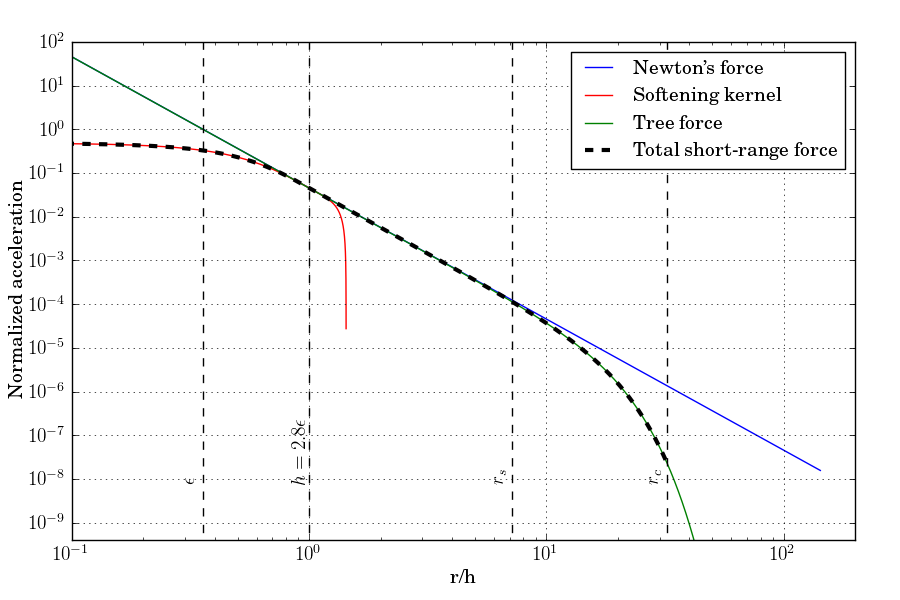
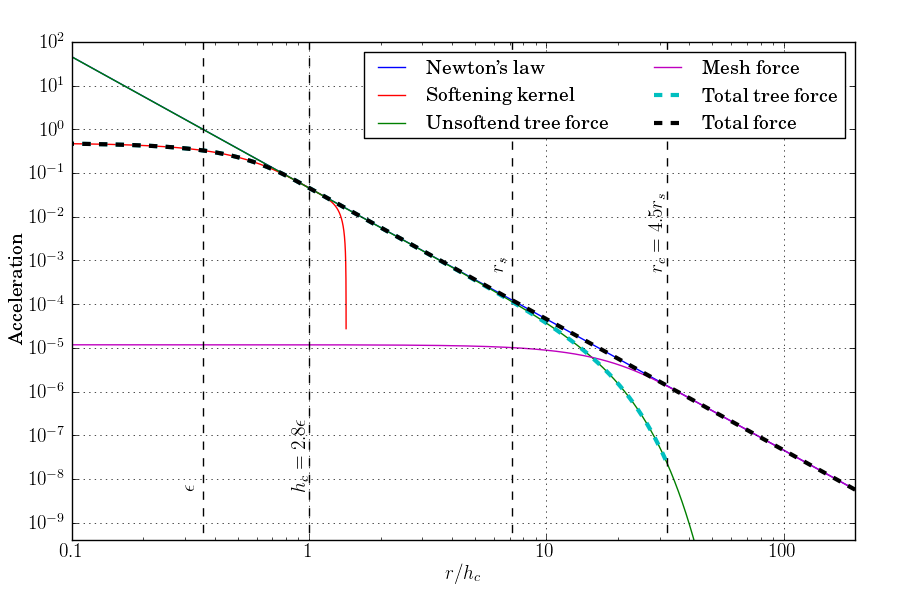
Added the detailed equations for short-range gravity interactions to the theory document.
Former-commit-id: dc4b5da24241951c061626df676817c9820bc9d8

diff --git a/theory/latex/swift.tex b/theory/latex/swift.tex
@@ -2,6 +2,7 @@
 \usepackage[utf8]{inputenc}
 \usepackage{amsmath}
 \usepackage{color}
+\usepackage{graphicx}
 
 \newcommand{\swift}{\textsc{swift }}
 \newcommand{\eagle}{\textsc{eagle }}
@@ -147,7 +148,7 @@ performed very rarely and is described in chapter \ref{chap:FOF}.
 
 \section{Units used in the code}
 
-\textcolor{red}{To be agreed on and written down.}
+\textcolor{red}{To be written down.}
 
 
 
@@ -200,81 +201,141 @@ time. In cosmological simulations, the softening length is a function of time.
 The gravity interactions are split in two parts, the sort range interactions computed via the FMM method and the long 
 range interactions computed through a PM scheme. Short range interactions are also soften on a scale $\epsilon$ to 
 reduce the effect of spurious two-body relaxation. For implementation purposes, we define the quantity $h_c = 
-2.8\epsilon$, the radius at which the force becomes Newtonian and is not soften any more.
+2.8\epsilon$, the radius at which the force becomes purely Newtonian and is not soften any more.
+
+\begin{equation}
+ \vec{a} = \vec{a}_{short} + \vec{a}_{long}
+\end{equation}
+
 
 The short range force is computed thanks to FMM. The expression for the acceleration of a particle $i$ due to a body 
 (particle or monopole) $j$ is given by:
 
 \begin{equation}
- \vec{a} = f \cdot \vec{r}_{ij},
+ \vec{a}_{short} = G\cdot f \cdot f_{LR} \cdot \vec{r}_{ij},
 \end{equation}
- where $f$ is the norm of the acceleration given by
+ where $G$ is Newton's constant, $f$ is the softened local force and $f_{LR}$ is the correction factor coming from the use of the mesh for long distance forces.
+ The softened local force is 
 
 \begin{equation}
- f = G\left\lbrace \begin{array}{rcl}
-                    \frac{1}{|\vec{r}_{ij}|^3}  & \mbox{if} & |\vec{r}_{ij}| > h_c \\
-                    (\frac{32}{3} + \frac{|\vec{r}_{ij}|^2}{h_c^2} (32 \frac{|\vec{r}_{ij}|}{h_c} - 38.4)) / h_c^3  & 
-\mbox{if} & h_c \geq |\vec{r}_{ij}| > \frac{h_c}{2} \\	
-                    \frac{1}{|\vec{r}_{ij}|^3}  & \mbox{if} & |\vec{r}_{ij}| \leq \frac{h_c}{2} \\		
+\nonumber
+ f = \left\lbrace \begin{array}{rcl}
+                    \frac{1}{|\vec{r}_{ij}|^3}  & \mbox{if} & |\vec{r}_{ij}| > h_c\Big. \\
+                    \frac{1}{h_c^3}\left(-\frac{32}{3}\frac{|\vec{r}_{ij}|^3}{h_c^3} + \frac{192}{5}\frac{|\vec{r}_{ij}|^2}{h_c^2} - 48\frac{|\vec{r}_{ij}|}{h_c} + \frac{64}{3} - \frac{2h_c^3}{3|\vec{r}_{ij}|^3} \right)  & \mbox{if} & h_c \geq |\vec{r}_{ij}| > \frac{h_c}{2}\Big. \\	
+                    \frac{1}{h_c^3}\left(32\frac{|\vec{r}_{ij}|^3}{h_c^3} - \frac{192}{5}\frac{|\vec{r}_{ij}|^2}{h_c^2} + \frac{32}{3}\right)  & \mbox{if} & |\vec{r}_{ij}| \leq \frac{h_c}{2}\Big. \\		
 		    \end{array}\right.
 \end{equation}
 
- 
+The correction factor introduced by the long range force calculation is dependant on the parameter $r_s$, the spatial scale of the force-split.
+
+\begin{equation}
+ f_{LR} = \text{erfc}\left(\frac{|\vec{r}_{ij}|}{2r_s}\right) + \frac{|\vec{r}_{ij}|}{r_s\sqrt{\pi}}\exp\left(-\frac{|\vec{r}_{ij}|^2}{4r_s^2}\right)
+\end{equation}
+
+In practice, $r_s$ is given as a multiple ($\sim 1.25$) of the FFT-mesh size (See below). Figure \ref{fig:short_range_correction} shows the value of $f_{LR}$ for various distances $r$ (expressed in units of $r_s$.
+As can be seen for distances greater than a few $r_s$, the value drops below $10^{-2}$, effectively suppressing the force contributions coming from the tree for large distances. In practice, a
+cut-off distance of $r_c$ is used above which no tree interaction is performed. A choice of $r_c=4.5r_s$ is standard. Notice than in practice $r_s \gg \epsilon$.\\
+The values of $r_s$ and $r_c$ are both given at compile time. \\
+
+\begin{figure}
+\centering
+\includegraphics[width=\textwidth]{Figures/Gravity/correction}
+\caption{Correction terms to the force computed from the tree due to the use of a mesh for long range forces. For distances above $r_c$, the contribution of the tree becomes neglectable and can safely be ignored.
+The red curve is the complement to one of $f_{LR}$ and shows that this term only matters in a small region around $r_s$ and can safely be replaced by $1$ for $r\ll r_s$.} 
+ \label{fig:short_range_correction}
+\end{figure}
+
+A similar cut-off radius could be used to avoid computing $f_{LR}$ for small $r$ (i.e. when the term is $1$). \gadget pre-computes the values of $f_{LR}$ and stores the results
+in a table. This allows to avoid the expensive calculation of the exact term. \\
+
+The long range force is computed using the FFT algoritm. In the first step, the particles are sampled on the grid to give the density field $\rho(\vec{x})$. We then use a Fourier
+transform to compute the field $\hat\rho(\vec{k})$. We then compute the potential in Fourier space by applying the filter function corresponding to the term $f_{LR}$. This reads:
+
+\begin{equation}
+ \hat\phi(\vec{k}) = - \frac{4\pi G\hat\rho(\vec{k})}{|\vec{k}|^2} \exp\left(-|\vec{k}|^2 r_s^2\right).
+\end{equation}
+
+This is then transformed back to real space using an inverse FFT. The force applied to each particle is obtained by finite-differentiating this using a standard stencil:
+
+\begin{equation}
+ \frac{d\phi}{dx_i} = \frac{1}{\Delta x}\left(\frac{1}{12}\phi_{i-2,j,k} - \frac{2}{3}\phi_{i-1,j,k} + \frac{2}{3}\phi_{i+1,j,k} - \frac{1}{12}\phi_{i+2,j,k}\right)
+\end{equation}
+
+Figure \ref{fig:total_force} shows the total acceleration as a function of distance and the different contributions. The total error made in the calculation is displayed on figure
+\ref{fig:total_error}. The error comes from the truncation of the short-range tree forces at a distance $r_c$. For $r_c>4.5r_s$, the error is less than $2\%$. Higher values of
+$r_c$ would improve the accuracy but lead to more intereactions computed via the tree instead of via the mesh.\\
+
+\begin{figure}
+\centering
+\includegraphics[width=\textwidth]{Figures/Gravity/force}
+\caption{Total acceleration and the various contributions as a function of the distance $r$ in units of $h_c$. No tree-based interaction is computed for $r>r_c$.
+The value of $r_s$ chosen here is arbitrary.} 
+ \label{fig:total_force}
+\end{figure}
+
+\begin{figure}
+\centering
+\includegraphics[width=\textwidth]{Figures/Gravity/error}
+\caption{Relative error made on the acceleration calculation as a function of the distance $r$ expressed in uits of $r_s$. The error is maximal at $r=r_c$ and is less than $2\%$ in magnitude if 
+one chooses $r_c > 4.5 r_s$.} 
+ \label{fig:total_error}
+\end{figure}
+
 The maximal time step a particle is allowed to have is related to the acceleration by:
 
 \begin{equation}
- \Delta t_i = \sqrt{\frac{2\eta \epsilon_i}{|\vec{a_i}|}}
+ \Delta t_i = \sqrt{\frac{2\eta \epsilon}{|\vec{a_i}|}}
 \end{equation}
 
 where $\eta$ is some accuracy constant which generally takes a value around $\eta \approx 0.025$.
 
-\section{Periodic boundary conditions}
+% \section{Periodic boundary conditions}
+% 
+% In most cases, the simulations are run with periodic boundary conditions. The simplest way to treat the formally
+% infinite number of interactions in a tree code is to use the Ewald summation technique. In this case, the acceleration
+% of a particle gets a new term:
+% 
+% \begin{equation}
+%  \vec{a_i} = \vec{a_i} + \sum_j m_j \vec{f}_c(\vec{r}_{ij}).
+% \end{equation}
+% 
+% The correction terms $\vec{f}_c$ are expensive to compute but are constant in time and only depend on the distance
+% between the particles. This means that the values can be pre-computed and stored in a table. A simple 3D interpolation
+% of the values in this table is then used when actually computing the force. \gadget and other code use a $N_e=64$
+% elements per dimension table representing one octant. The other ones can be obtained thanks to the symmetry properties
+% of the terms. \\
+% 
+% The table is computed as follows. For every element $i <N_e, j<N_e,k<N_e$, we compute the vector $\vec{x} =
+% (\frac{i}{2N_e}, \frac{j}{2N_e}, \frac{k}{2N_e})$. The table element $(i,j,k)$ is then:
+% 
+% \begin{eqnarray*}
+%  \vec{E}_{ijk} &=& \frac{1}{L^2}\frac{\vec{x}}{|\vec{x}|} \\
+%          & & -\frac{1}{L^2}\sum_{n_x=-l_n}^{l_n}\sum_{n_z=-l_n}^{l_n}\sum_{n_z=-l_n}^{l_n}
+% \frac{\vec{x}-\vec{n}}{|\vec{x}-\vec{n}|}\left[\mathrm{erfc}\left(\alpha|\vec{x}-\vec{n}|\right) +
+% \frac{2\alpha}{\sqrt{\pi}}|\vec{x}-\vec{n}|\cdot e^{-\alpha^2|\vec{x}-\vec{n}|^2}\right]\\
+%          & & -\frac{1}{L^2}\sum_{h_x=-l_h}^{l_h}\sum_{h_z=-l_h}^{l_h}\sum_{h_z=-l_h}^{l_h} 2\frac{\vec{h}}{|\vec{h}|^2}
+% \cdot e^{-\pi^2|\vec{h}|^2} \cdot \sin\left(2\pi\cdot \vec{h}\cdot\vec{x}\right)
+% \end{eqnarray*}
+% 
+% where $L$ is the size of the box, $\alpha$ is an arbitrary number and the vectors $\vec{n}$ and $\vec{h}$ are defined
+% as $\vec{n} = (n_x,n_y,n_z)$ and $\vec{h} = (h_x,h_y,h_z)$. \gadget uses $\alpha=2$ and $l_n=l_h=4$. The higher these
+% last two values and $N_e$ are, the better the approximation. The result does not depend on $\alpha$ but depending on
+% the value, the convergence of the serires toward the exact solution can vary. \\
+% These tables are computed at the start of the simulation or read from a file to speed-up initialization. \\
+% 
+% Once the table has been computed, the values can be used to get the corrections $\vec{f}_c(\vec{r}_{ij})$.
+% 
+% \begin{equation}
+%  \vec{f}_c(\vec{r}_{ij}) = \vec{E}_{abc}
+% \end{equation}
+% 
+% where the indices $a$, $b$ and $c$ are rounded down integer values $(a,b,c) = \left\lfloor\frac{2N}{L}
+% \vec{r}_{ij}\right\rfloor$ of the distance between particle $i$ and $j$.
 
-In most cases, the simulations are run with periodic boundary conditions. The simplest way to treat the formally
-infinite number of interactions in a tree code is to use the Ewald summation technique. In this case, the acceleration
-of a particle gets a new term:
-
-\begin{equation}
- \vec{a_i} = \vec{a_i} + \sum_j m_j \vec{f}_c(\vec{r}_{ij}).
-\end{equation}
-
-The correction terms $\vec{f}_c$ are expensive to compute but are constant in time and only depend on the distance
-between the particles. This means that the values can be pre-computed and stored in a table. A simple 3D interpolation
-of the values in this table is then used when actually computing the force. \gadget and other code use a $N_e=64$
-elements per dimension table representing one octant. The other ones can be obtained thanks to the symmetry properties
-of the terms. \\
-
-The table is computed as follows. For every element $i <N_e, j<N_e,k<N_e$, we compute the vector $\vec{x} =
-(\frac{i}{2N_e}, \frac{j}{2N_e}, \frac{k}{2N_e})$. The table element $(i,j,k)$ is then:
-
-\begin{eqnarray*}
- \vec{E}_{ijk} &=& \frac{1}{L^2}\frac{\vec{x}}{|\vec{x}|} \\
-         & & -\frac{1}{L^2}\sum_{n_x=-l_n}^{l_n}\sum_{n_z=-l_n}^{l_n}\sum_{n_z=-l_n}^{l_n}
-\frac{\vec{x}-\vec{n}}{|\vec{x}-\vec{n}|}\left[\mathrm{erfc}\left(\alpha|\vec{x}-\vec{n}|\right) +
-\frac{2\alpha}{\sqrt{\pi}}|\vec{x}-\vec{n}|\cdot e^{-\alpha^2|\vec{x}-\vec{n}|^2}\right]\\
-         & & -\frac{1}{L^2}\sum_{h_x=-l_h}^{l_h}\sum_{h_z=-l_h}^{l_h}\sum_{h_z=-l_h}^{l_h} 2\frac{\vec{h}}{|\vec{h}|^2}
-\cdot e^{-\pi^2|\vec{h}|^2} \cdot \sin\left(2\pi\cdot \vec{h}\cdot\vec{x}\right)
-\end{eqnarray*}
-
-where $L$ is the size of the box, $\alpha$ is an arbitrary number and the vectors $\vec{n}$ and $\vec{h}$ are defined
-as $\vec{n} = (n_x,n_y,n_z)$ and $\vec{h} = (h_x,h_y,h_z)$. \gadget uses $\alpha=2$ and $l_n=l_h=4$. The higher these
-last two values and $N_e$ are, the better the approximation. The result does not depend on $\alpha$ but depending on
-the value, the convergence of the serires toward the exact solution can vary. \\
-These tables are computed at the start of the simulation or read from a file to speed-up initialization. \\
-
-Once the table has been computed, the values can be used to get the corrections $\vec{f}_c(\vec{r}_{ij})$.
-
-\begin{equation}
- \vec{f}_c(\vec{r}_{ij}) = \vec{E}_{abc}
-\end{equation}
-
-where the indices $a$, $b$ and $c$ are rounded down integer values $(a,b,c) = \left\lfloor\frac{2N}{L}
-\vec{r}_{ij}\right\rfloor$ of the distance between particle $i$ and $j$.
-
-\section{Fast Multipole Method}
-
-
-\textcolor{red}{To be done.}
+% \section{Fast Multipole Method}
+% 
+% 
+% \textcolor{red}{To be done.}
 
 
 

diff --git a/theory/latex/Figures/Gravity/force.py b/theory/latex/Figures/Gravity/force.py
@@ -37,27 +37,36 @@ h = 2.8*epsilon
 r_s = 20.
 r_c = 4.5*r_s
 
-r=arange(0.1, 400, 1/1000.)
+r=arange(0.1, 2500, 1/1000.)
 
 numElem = size(r)
 f = zeros(numElem)
+f_wanted = zeros(numElem)
 fac = zeros(numElem)
+f2 = zeros(numElem)
+fac2 = zeros(numElem)
 kernel = zeros(numElem)
 
 for i in range(numElem):
     if ( r[i] >= r_c ):
         f[i] = 0.
+        f_wanted[i] = (1. / r[i]**3)
     elif ( r[i] >= h ):
         f[i] = (1. / r[i]**3)
+        f_wanted[i] = (1. / r[i]**3)
     else:
         u = r[i] / h
         if( u < 0.5 ):
             f[i] = (10.666666666667 + u * u * (32.0 * u - 38.4)) / h**3 
+            f_wanted[i] = (10.666666666667 + u * u * (32.0 * u - 38.4)) / h**3 
         else:
             f[i] = (21.333333333333 - 48.0 * u + 38.4 * u * u - 10.666666666667 * u * u * u - 0.066666666667 / (u * u * u)) / h**3
+            f_wanted[i] = (21.333333333333 - 48.0 * u + 38.4 * u * u - 10.666666666667 * u * u * u - 0.066666666667 / (u * u * u)) / h**3
 
     fac[i] = math.erfc( r[i] / ( 2. * r_s ) ) + ( r[i] / ( r_s * sqrt( math.pi ) ) ) * exp( - r[i] * r[i] / ( 4 * r_s * r_s ) ) 
+    fac2[i] = math.erf( r[i] / ( 2. * r_s ) ) - ( r[i] / ( r_s * sqrt( math.pi ) ) ) * exp( - r[i] * r[i] / ( 4 * r_s * r_s ) ) 
     f[i] = f[i]*fac[i]
+    f2[i] = (1. / r[i]**3) * fac2[i]
 
 for i in range(numElem):
     u = r[i] / h
@@ -67,35 +76,94 @@ for i in range(numElem):
         kernel[i] = (21.333333333333 - 48.0 * u + 38.4 * u * u - 10.666666666667 * u * u * u - 0.066666666667 / (u * u * u)) / h**3
 
 figure()
-loglog(r/h, 1/r**3, 'b-', label="Newton's force")
+loglog(r/h, 1/r**3, 'b-', label="Newton's law")
 loglog(r/h, kernel, 'r-', label="Softening kernel")
-loglog(r/h, fac/r**3, 'g-', label="Tree force",)
-loglog(r/h, f, 'k--', label="Total short-range force", linewidth=3)
+loglog(r/h, fac/r**3, 'g-', label="Unsoftend tree force",)
+loglog(r/h, f2, 'm-', label="Mesh force",)
+loglog(r/h, f, 'c--', label="Total tree force", linewidth=3)
+loglog(r/h, f + f2, 'k--', label="Total force", linewidth=3)
 
 
 plot([1, 1], [1e-10, 1e10], 'k--')
-text(0.85, 7e-9, "$h=2.8\epsilon$", rotation="vertical", fontsize=14, va="bottom")
+text(0.85, 5e-9, "$h_c=2.8\epsilon$", rotation="vertical", fontsize=14, va="bottom")
 
 plot([epsilon/h, epsilon/h], [1e-10, 1e10], 'k--')
-text(0.85*epsilon/h, 7e-9, "$\epsilon$", rotation="vertical", fontsize=14, va="bottom")
+text(0.85*epsilon/h, 5e-9, "$\epsilon$", rotation="vertical", fontsize=14, va="bottom")
 
 plot([r_s/h, r_s/h], [1e-10, 1e10], 'k--')
-text(0.85*r_s/h, 7e-9, "$r_s$", rotation="vertical", fontsize=14, va="bottom")
+text(0.85*r_s/h, 5e-4, "$r_s$", rotation="vertical", fontsize=14, va="bottom")
 
 plot([r_c/h, r_c/h], [1e-10, 1e10], 'k--')
-text(0.85*r_c/h, 7e-9, "$r_c$", rotation="vertical", fontsize=14, va="bottom")
+text(0.85*r_c/h, 5e-4, "$r_c=4.5r_s$", rotation="vertical", fontsize=14, va="bottom")
 
 
-legend(loc="upper right")
+legend(loc="upper right", ncol=2)
 
 
 grid()
 
 xlim(1e-1, 200)
-xlabel("r/h")
+xlabel("$r/h_c$")
+xticks([0.1, 1, 10, 100], ["$0.1$", "$1$", "$10$", "$100$"])
 
 ylim(4e-10, 1e2)
-ylabel("Normalized acceleration")
+ylabel("Acceleration")
 
 
 savefig("force.png")
+
+
+
+
+
+
+figure()
+
+semilogx(r/r_s, (f+f2) / f_wanted - 1 , 'r-' , label="$error$", linewidth=2)
+
+plot([1, 1], [-1e10, 1e10], 'k--')
+text(0.85*1, 0.011, "$r_s$", rotation="vertical", fontsize=14, va="bottom")
+
+plot([r_c/r_s, r_c/r_s], [-1e10, 1e10], 'k--')
+text(0.85*r_c/r_s, 0.011, "$r_c=4.5r_s$", rotation="vertical", fontsize=14, va="bottom")
+
+grid()
+
+xlim(1e-1, 200)
+xlabel("$r/r_s$")
+xticks([0.1, 1, 10, 100], ["$0.1$", "$1$", "$10$", "$100$"])
+
+ylim(-0.025, 0.025)
+yticks([-0.02, -0.01, 0., 0.01, 0.02], ["$-2\%$", "$-1\%$", "$0\%$", "$1\%$", "$2\%$"])
+
+savefig("error.png")
+
+
+
+
+
+
+
+figure()
+loglog(r/r_s, fac, 'b-' , label="$f_{LR}$", linewidth=2)
+loglog(r/r_s, 1-fac, 'r-', label="$1-f_{LR}$", linewidth=2)
+
+grid()
+xlim(0.05, 30)
+ylim(1e-3,2)
+
+xlabel("$r/r_s$")
+xticks([0.1, 1, 10], ["$0.1$", "$1$", "$10$"])
+
+yticks([0.001, 0.01, 0.1, 1], ["$10^{-3}$", "$10^{-2}$", "$10^{-1}$", "$1$"])
+
+legend(loc="lower left")
+
+plot([1, 1], [1e-10, 1e10], 'k--')
+text(0.85*1, 2e-3, "$r_s$", rotation="vertical", fontsize=14, va="bottom")
+
+plot([r_c/r_s, r_c/r_s], [1e-10, 1e10], 'k--')
+text(0.85*r_c/r_s, 2e-3, "$r_c=4.5r_s$", rotation="vertical", fontsize=14, va="bottom")
+
+
+savefig("correction.png")
